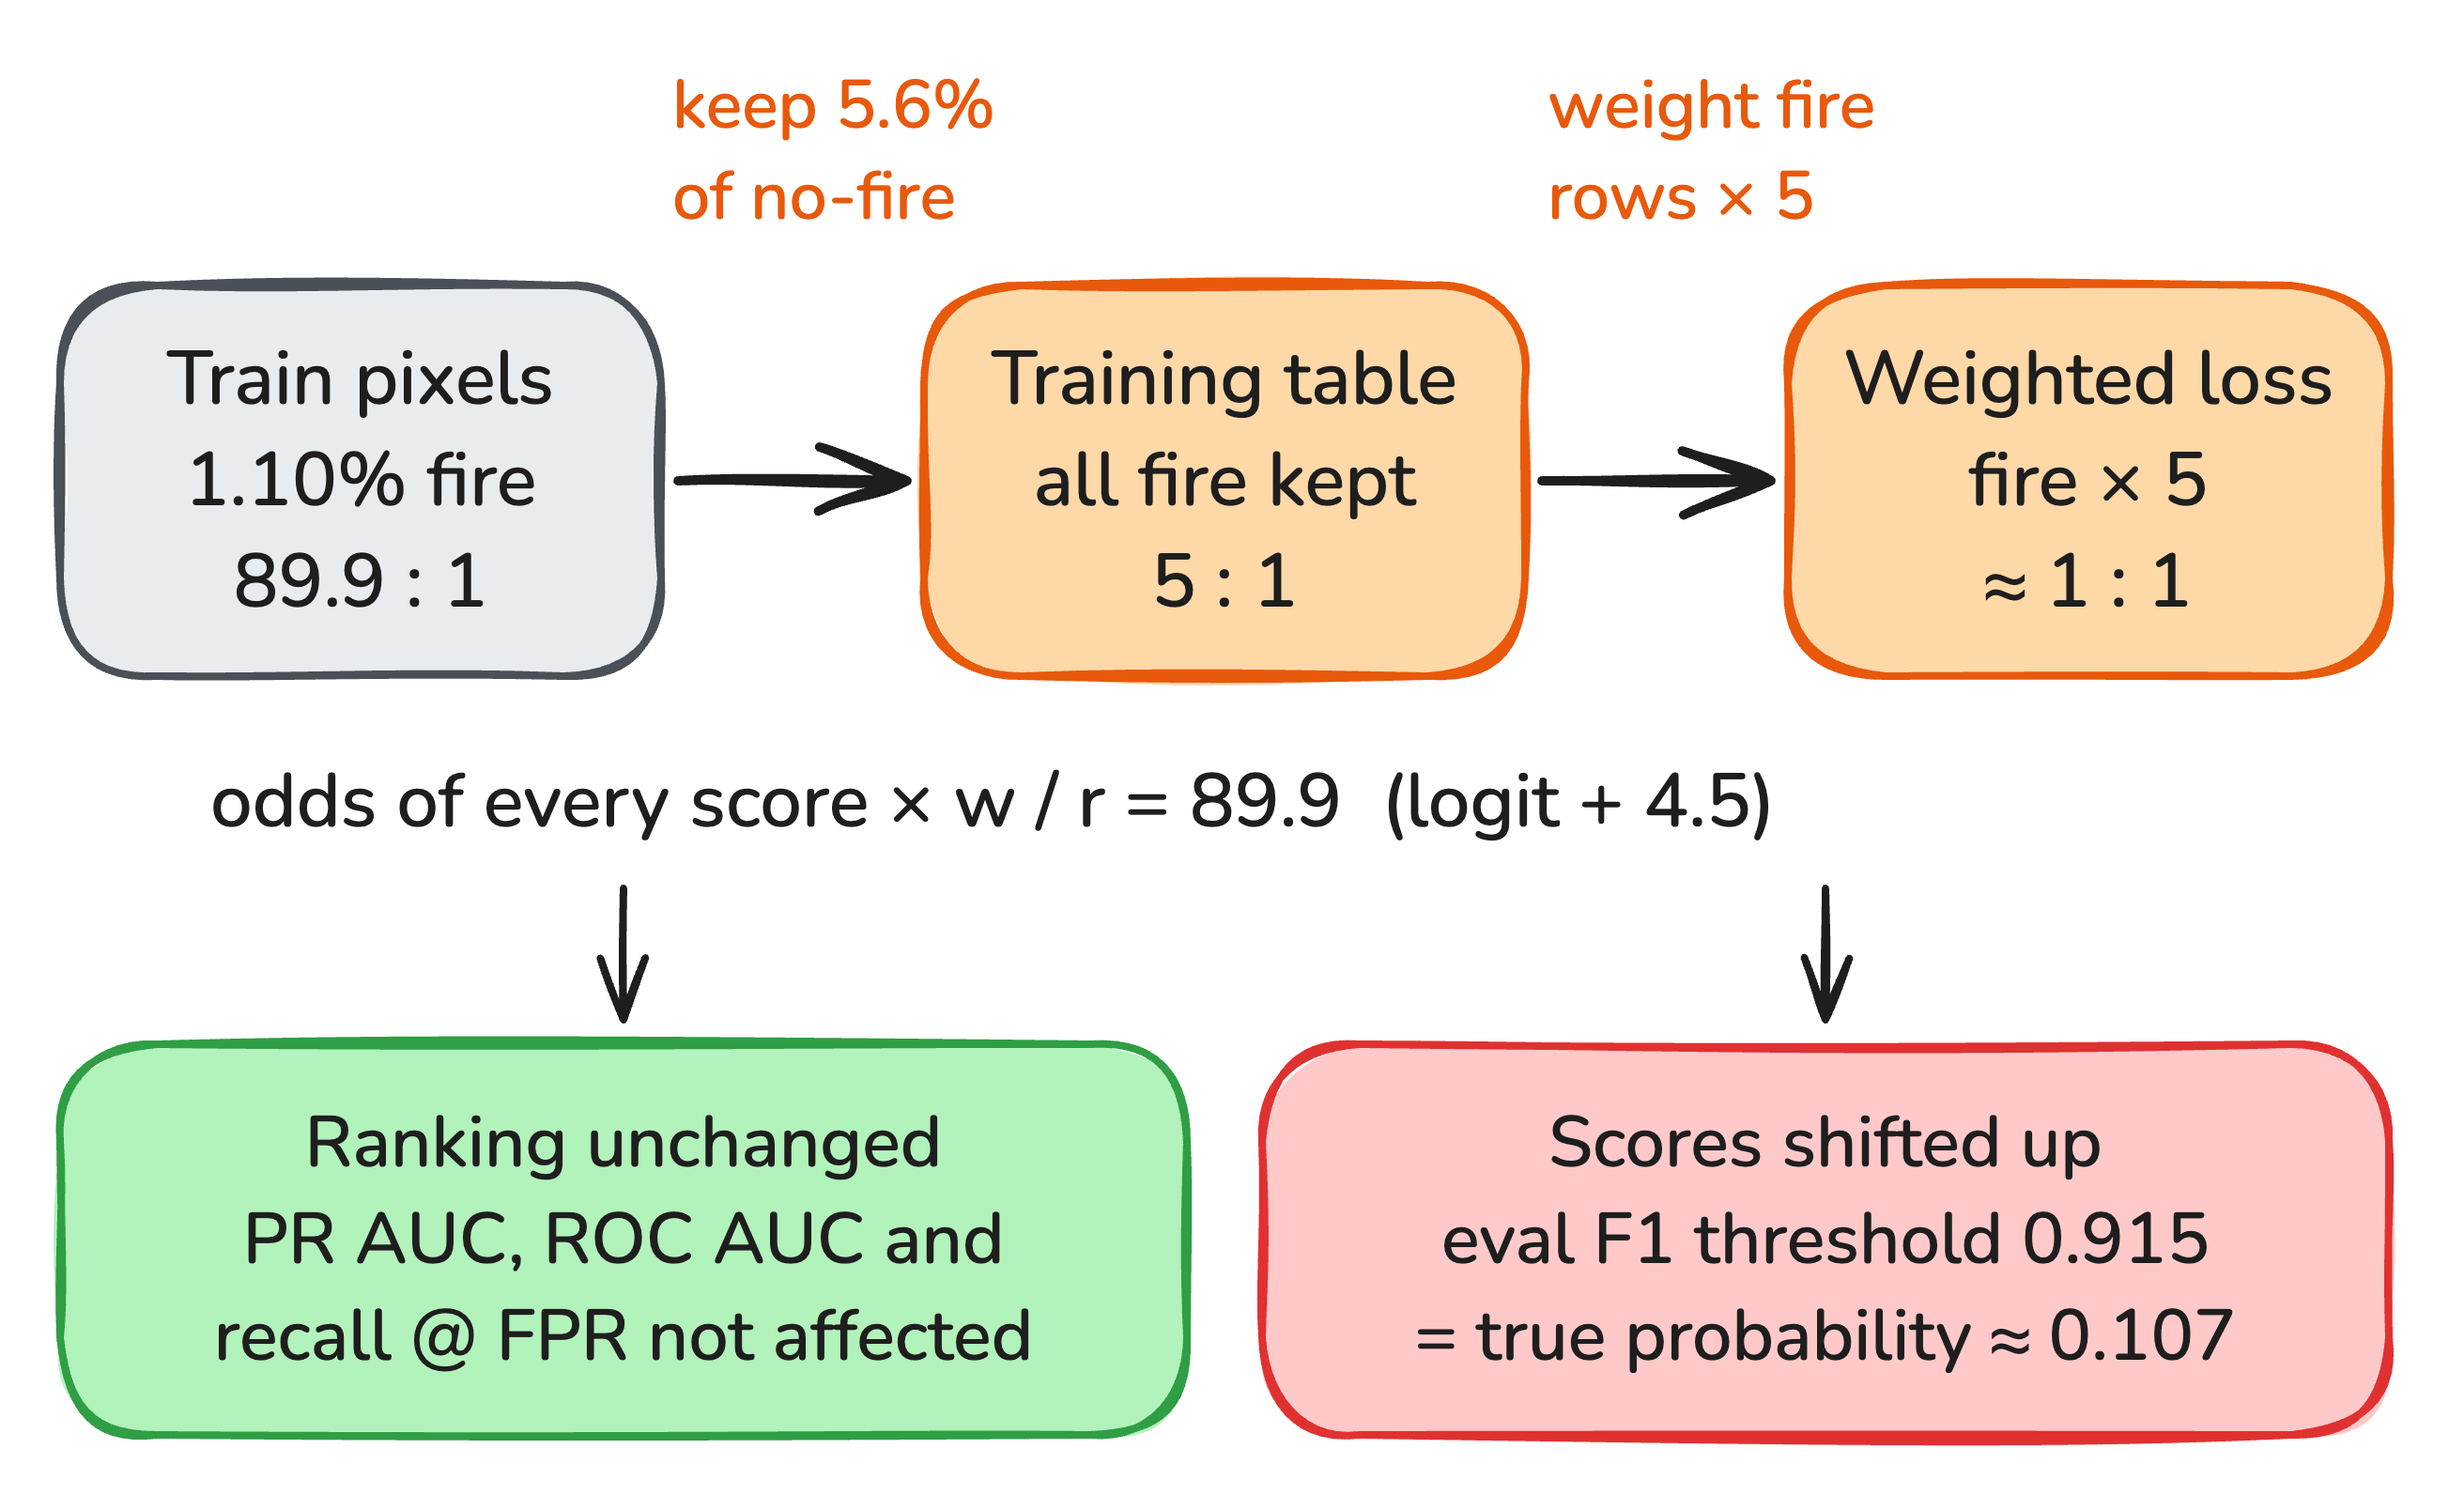
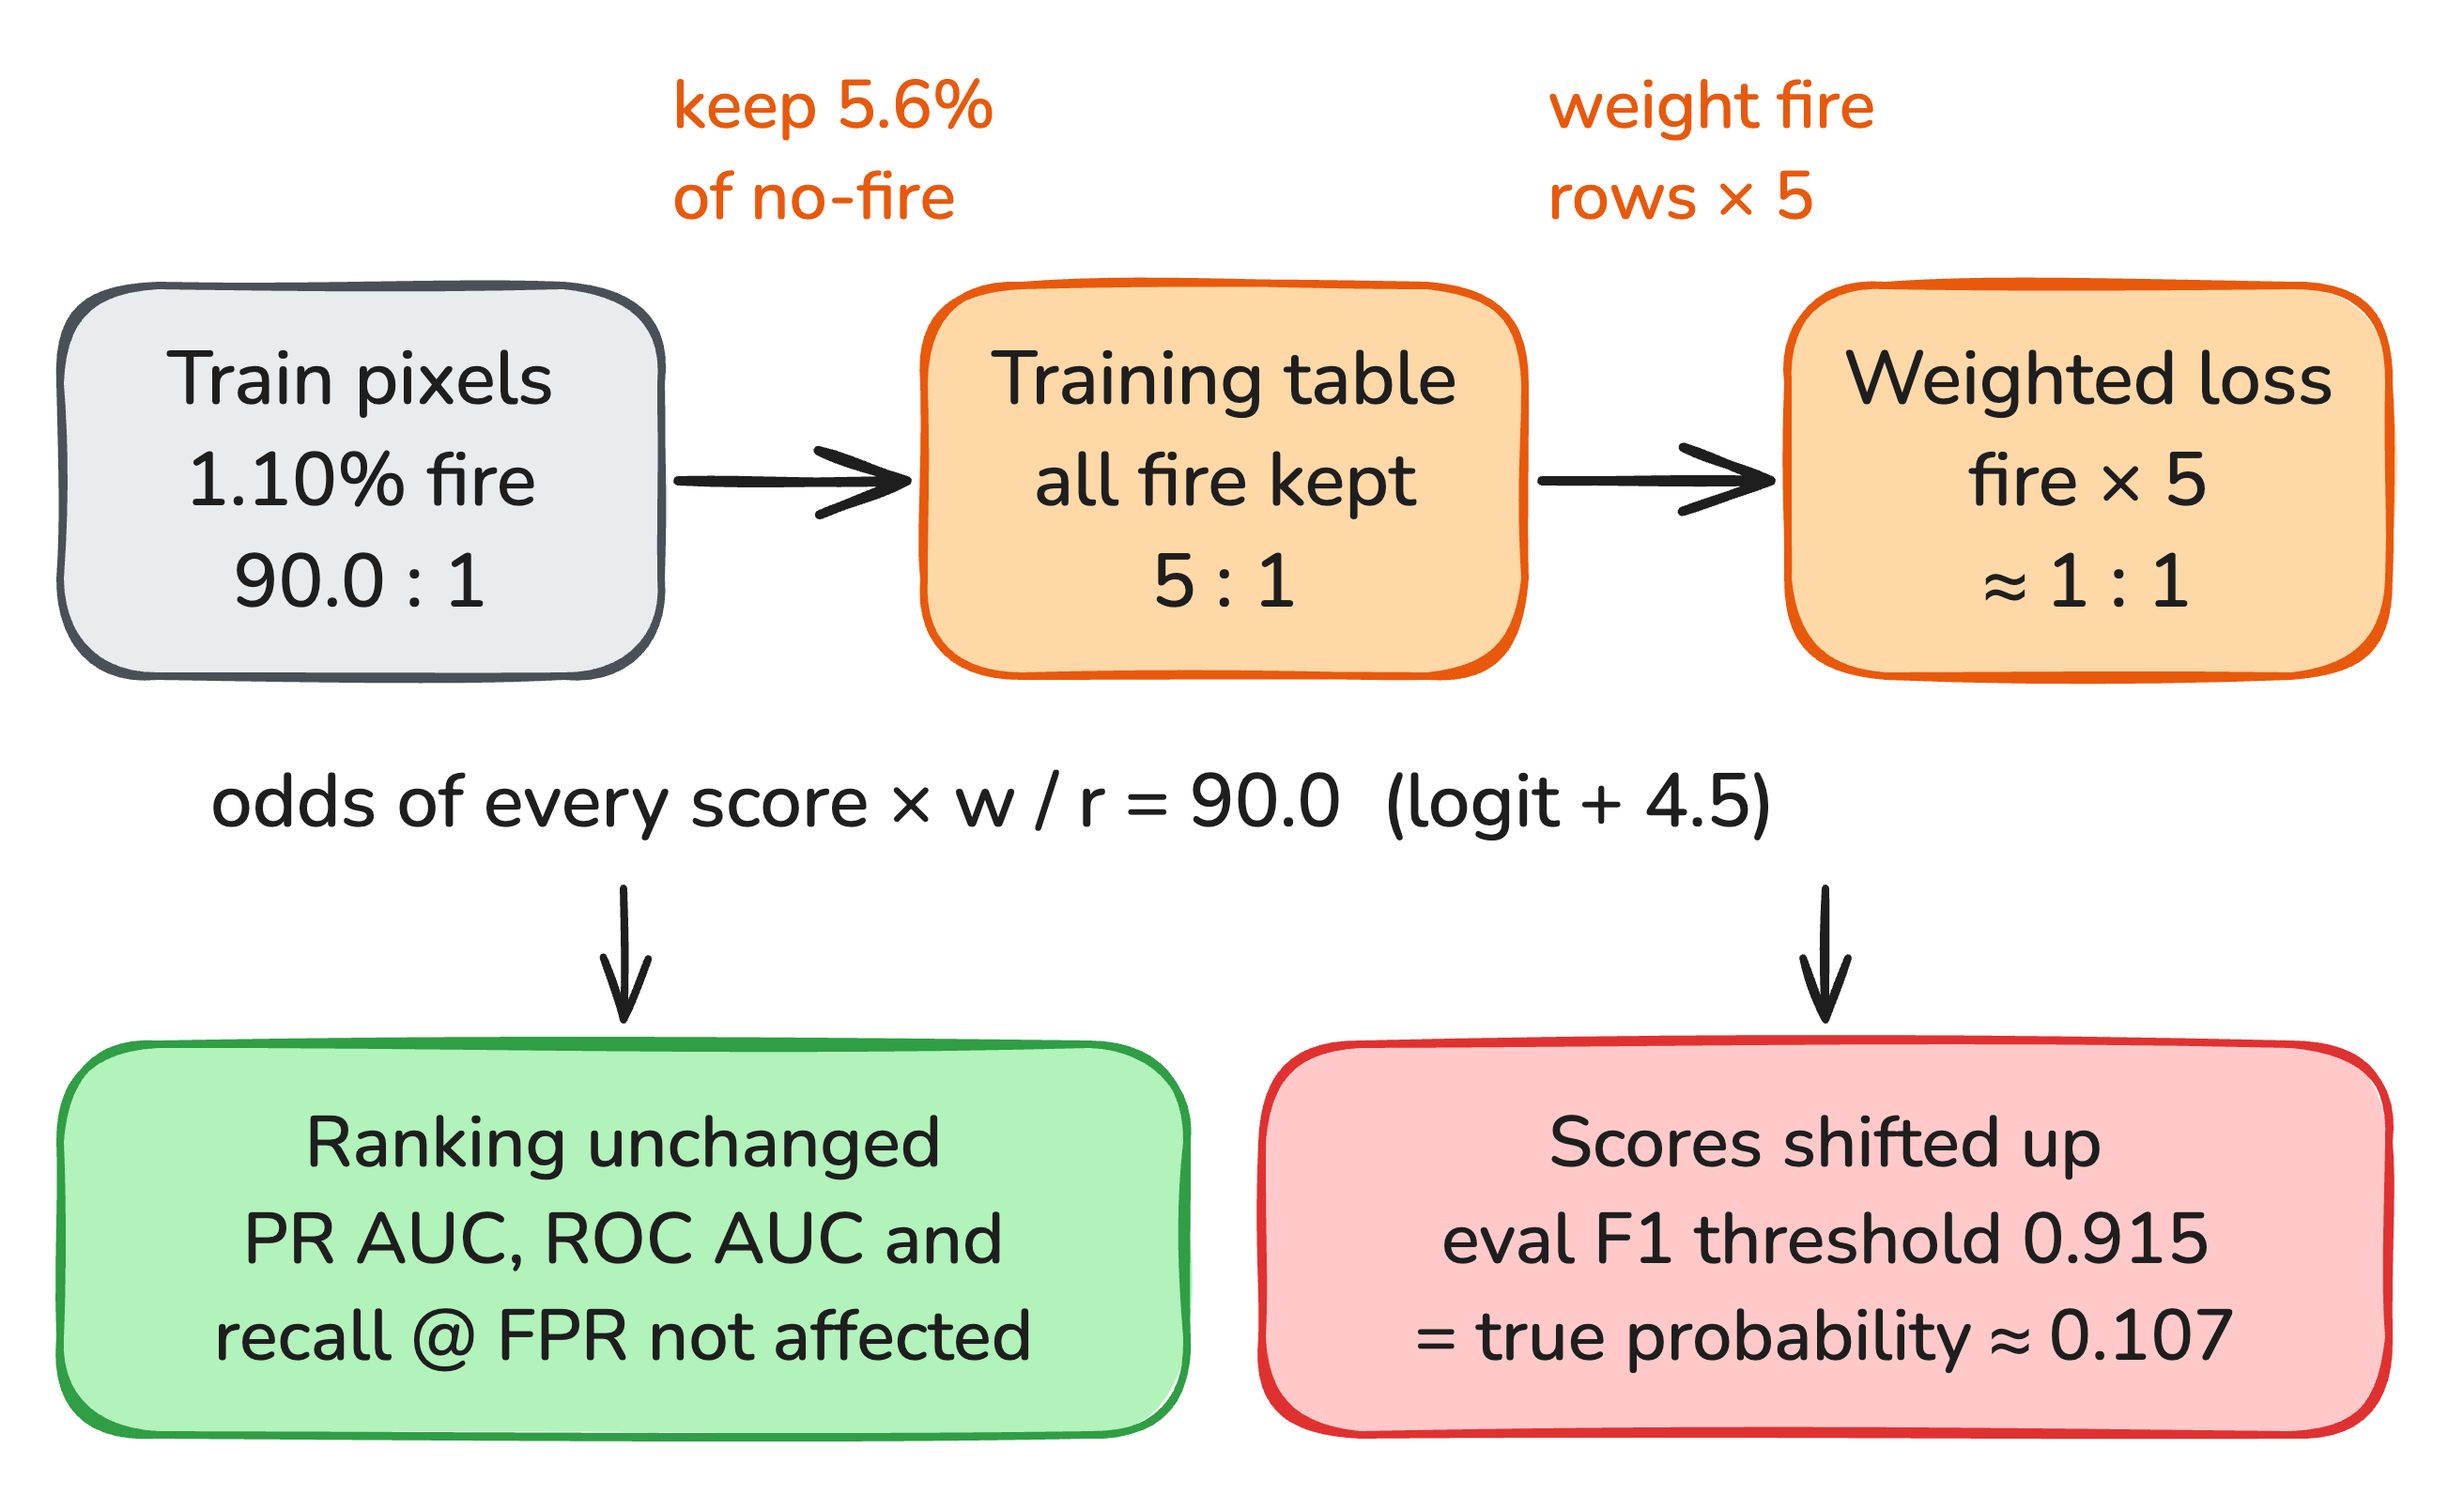
use the exact prior-shift factor 90.0
w/r was given as 89.9, from the rounded training fire rate 1.10%. The exact value from
reports/checks/calibration_meta.json is 90.0. Threshold mappings (0.915 -> 0.107, 0.5 -> 0.011)
are unchanged.

diff --git a/paper/sections/theory.tex b/paper/sections/theory.tex
@@ -178,9 +178,9 @@ loss reduces to (\ref{eq:weighted_ll}).
 \end{figure}
 
 \begin{projectbox}
-The training table keeps every fire pixel and 5 no-fire pixels per fire pixel, so $r = 5/89.9 = 0.056$,
+The training table keeps every fire pixel and 5 no-fire pixels per fire pixel, so $r = 5/90.0 = 0.056$,
 and fire rows get $w = 5$ (\texttt{scale\_pos\_weight}). The odds are therefore multiplied by
-$w/r = 89.9$, and the model trains as if the classes were balanced (Fig.~\ref{fig:th_imbalance}). This
+$w/r = 90.0$, and the model trains as if the classes were balanced (Fig.~\ref{fig:th_imbalance}). This
 explains the high F1 threshold of 0.915 chosen on eval: by (\ref{eq:inverse_shift}) it corresponds to a
 probability of 0.107 on the true scale, while a score of 0.5 corresponds to 0.011, the training fire
 rate. We checked the correction on test with a retrained copy of the model (Appendix~\ref{app:checks}).

diff --git a/paper/sections/appendix.tex b/paper/sections/appendix.tex
@@ -101,8 +101,8 @@ Taking odds, the densities appear in the same ratio in both:
 &= \frac{w}{r}\cdot\frac{p}{1-p} .
 \end{align}
 On the log-odds scale this is a constant shift, $\operatorname{logit} p' = \operatorname{logit} p + \log(w/r)$.
-Solving for $p$ gives the inverse map (\ref{eq:inverse_shift}). For our values, $w/r = 89.9$, so a score
-of $p' = 0.915$ (odds 10.8) has true odds $10.8/89.9 = 0.12$, that is $p = 0.107$.
+Solving for $p$ gives the inverse map (\ref{eq:inverse_shift}). For our values, $w/r = 90.0$, so a score
+of $p' = 0.915$ (odds 10.8) has true odds $10.8/90.0 = 0.12$, that is $p = 0.107$.
 
 \subsection{Precision as a function of prevalence}
 \label{app:prec}
